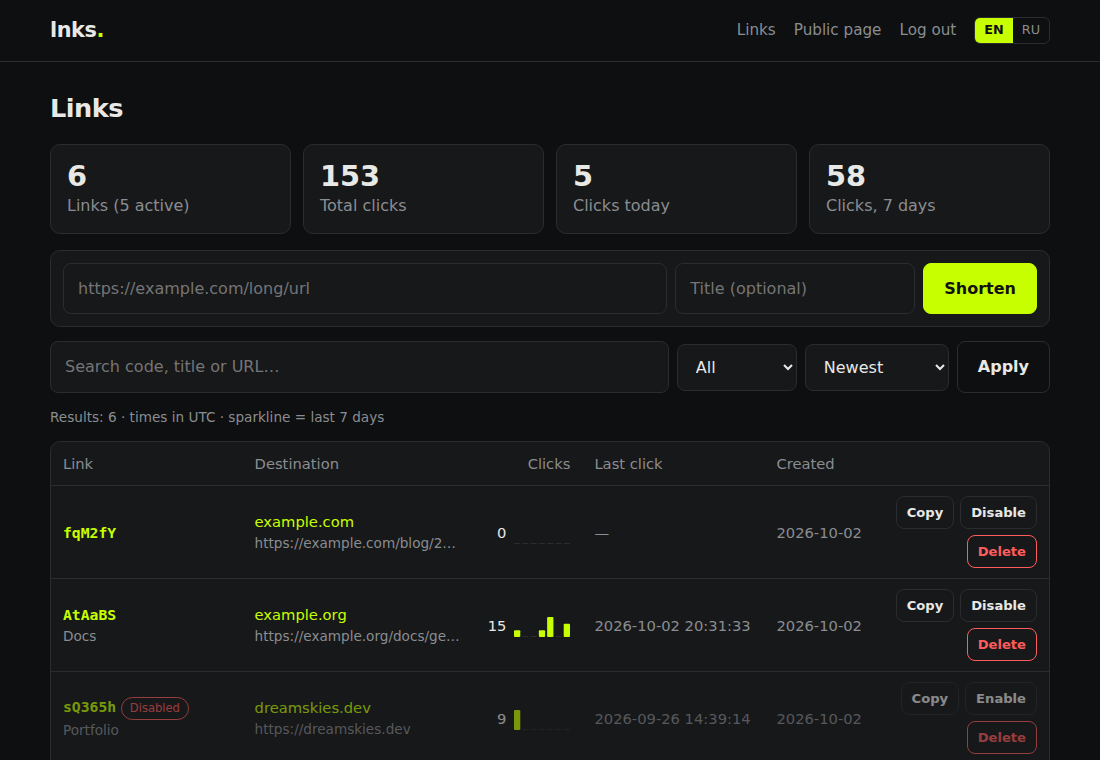
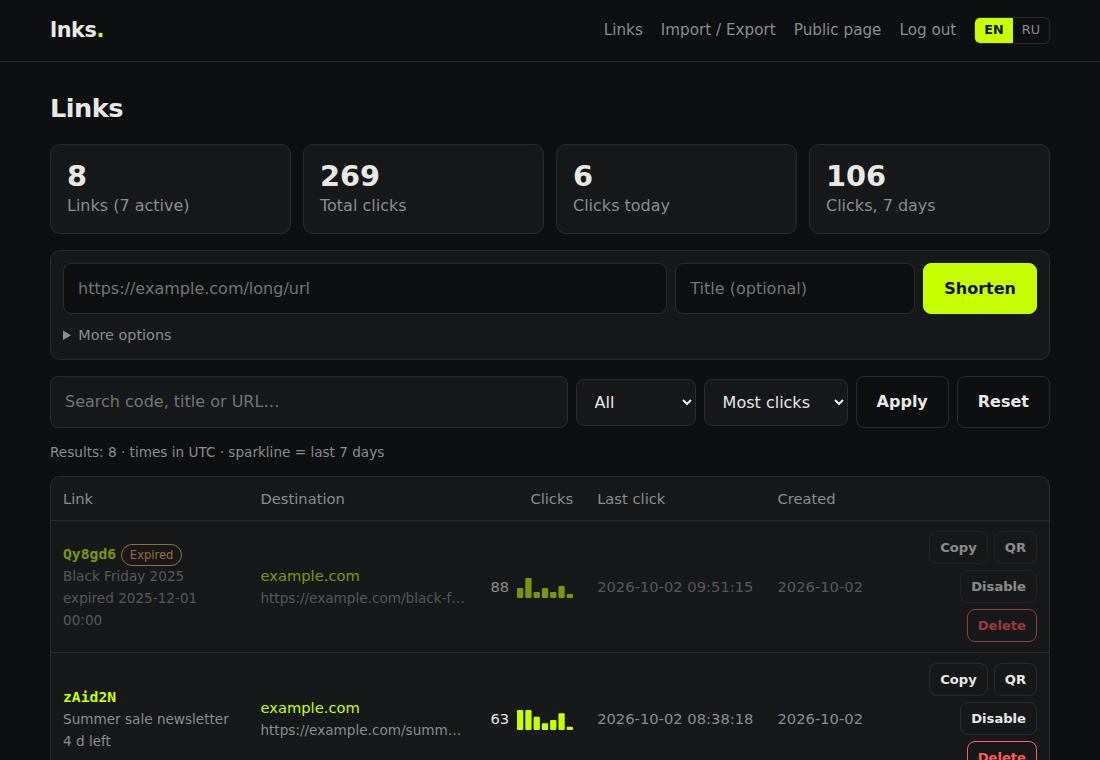
Stage 1.4: README positioning — no SSH/MySQL, comparison, FTP install
- 'Works without SSH and MySQL' block at the top (EN + RU)
- Comparison table with YOURLS, Shlink and Kutt, checked against each
  project's repository (YOURLS composer.json: PHP 8.1 + pdo_mysql; Shlink
  README: PHP 8.4, intl/gd/gmp, CLI installer on the server, QR moved to the
  web client in Shlink 5; Kutt: Node.js 20, expire_in, no click limit)
- Step-by-step 'Install over FTP' for shared hosting with troubleshooting;
  shell install kept for VPS; requirement that lnks runs at a domain root
- Screenshots refreshed: admin with expiry/limits, stats, QR dialog, CSV
  import preview, public page, mobile RU

diff --git a/README.ru.md b/README.ru.md
@@ -9,16 +9,43 @@
 
 Минималистичный self-hosted сервис сокращения ссылок. Одно небольшое PHP-приложение, SQLite, ноль зависимостей.
 
-Без Composer, фреймворков и Docker, без трекинг-пикселей и сторонних скриптов. Загрузите на любой PHP-хостинг, откройте в браузере — и всё работает.
+> ### Работает без SSH и MySQL
+> Залейте файлы по **FTP**, откройте домен в браузере, задайте логин и пароль — готово.
+> Не нужен доступ к консоли, не нужно создавать базу данных, никаких Composer, Docker и Node.js.
+> Если хостинг поддерживает PHP 8.0+ (а это почти любой виртуальный хостинг), lnks на нём заработает.
+
+Никаких трекинг-пикселей, сторонних скриптов и внешних сервисов: QR-коды рисуются в браузере, статистика хранится в вашем файле SQLite.
 
 <p align="center">
-  <img src="docs/screenshots/home.png" alt="Публичная страница" width="49%">
-  <img src="docs/screenshots/admin.png" alt="Админка" width="49%">
+  <img src="docs/screenshots/admin.png" alt="Админка: ссылки с графиками кликов, сроком действия и лимитами" width="49%">
+  <img src="docs/screenshots/stats.png" alt="Статистика и настройки ссылки" width="49%">
 </p>
 <p align="center">
-  <img src="docs/screenshots/stats.png" alt="Статистика по ссылке" width="49%">
+  <img src="docs/screenshots/qr.png" alt="Окно QR-кода со скачиванием PNG и SVG" width="49%">
+  <img src="docs/screenshots/import.png" alt="Предпросмотр импорта CSV с распознанной выгрузкой YOURLS" width="49%">
+</p>
+<p align="center">
+  <img src="docs/screenshots/home.png" alt="Публичная страница" width="49%">
   <img src="docs/screenshots/mobile-ru.png" alt="Мобильная версия, русский интерфейс" width="22%">
 </p>
+
+## Сравнение
+
+| | **lnks** | YOURLS | Shlink | Kutt |
+|---|---|---|---|---|
+| Среда | PHP 8.0+ | PHP 8.1+ | PHP 8.4+ | Node.js 20+ |
+| База данных | SQLite, создаётся сама | MySQL / MariaDB (создать вручную) | MySQL, MariaDB, PostgreSQL, SQL Server или SQLite | SQLite, PostgreSQL или MySQL / MariaDB |
+| Нужные расширения PHP | `pdo_sqlite` | `pdo_mysql` | `curl`, `intl`, `gd`, `gmp`/`bcmath`, драйвер PDO | — |
+| Установка только по FTP (без SSH) | ✅ веб-установщик | ✅ правка `config.php`, затем `/admin` | ❌ CLI-установщик запускается на сервере | ❌ нужен процесс Node.js или Docker |
+| Обычный виртуальный PHP-хостинг | ✅ | ✅ (с MySQL) | редко | ❌ |
+| Встроенная админка | ✅ | ✅ | отдельное приложение (Shlink Web Client) | ✅ |
+| QR-коды | ✅ | плагин | в веб-клиенте | ✅ |
+| Срок действия / лимит кликов | ✅ / ✅ | плагины | ✅ / ✅ | ✅ / — |
+| Импорт CSV (в т. ч. из YOURLS) | ✅ в админке и API | плагин | ✅ CLI-импортёр | — |
+
+<sub>Сверено с репозиториями и README проектов в октябре 2026 (YOURLS 1.10, Shlink 5, Kutt 3). Нашли неточность? [Создайте issue](https://github.com/iDreamSkies/lnks/issues).</sub>
+
+**Выбирайте lnks**, если нужен сокращатель на недорогом виртуальном хостинге за минуту, без сервера БД и консоли. **YOURLS** — если нужна его экосистема плагинов и уже есть MySQL, **Shlink** — для нескольких доменов и отдельного API-бэкенда, **Kutt** — если у вас и так Node.js или Docker.
 
 ## Возможности
 
@@ -57,20 +84,34 @@
 
 ## Требования
 
-- PHP 8.0+ с `pdo_sqlite` (есть в любой стандартной сборке PHP)
-- Apache с `mod_rewrite` или Nginx (конфиг ниже)
+- PHP 8.0 или новее с `pdo_sqlite` (включено практически на любом хостинге; установщик это проверит)
+- Apache с `mod_rewrite` (стандарт на виртуальном хостинге) или Nginx (конфиг ниже)
+- lnks должен находиться в **корне домена или поддомена** (`https://s.example.com/`), а не в подпапке
 
 ## Установка
 
-**Веб-установщик (проще всего):** загрузите файлы, направьте корень домена в папку проекта и откройте сайт. Мастер запустится сам:
+### Установка по FTP (виртуальный хостинг, без SSH)
 
-1. задайте **логин и пароль администратора**,
-2. решите, можно ли всем сокращать ссылки на главной,
-3. скопируйте сгенерированный API-токен (показывается один раз, также лежит в `config.php`).
+1. **Скачайте** lnks: на GitHub нажмите **Code → Download ZIP** и распакуйте архив на компьютере.
+2. **Создайте домен или поддомен** в панели хостинга (cPanel, ISPmanager, Plesk, DirectAdmin…), например `s.example.com`, и выберите для него **PHP 8.0 или новее**.
+3. **Загрузите файлы** FTP-клиентом (FileZilla, WinSCP или файловый менеджер хостинга) в папку этого домена — обычно `public_html`, `www` или `s.example.com/`. Загружайте *содержимое* папки `lnks-main`, включая скрытый файл `.htaccess` (в FileZilla: *Сервер → Принудительно показывать скрытые файлы*).
+4. **Дайте права на запись в `storage/`**: правый клик по папке `storage` → *Права доступа к файлу* → `775` (или `777`, если хостинг этого требует). Корневая папка тоже должна быть доступна для записи — один раз, чтобы установщик создал `config.php`.
+5. **Откройте домен** в браузере. Мастер установки проверит PHP, SQLite и права, затем попросит задать **логин и пароль администратора**.
+6. **Сохраните API-токен**, показанный в конце. По желанию удалите `install.php` по FTP.
 
-После установки установщик блокируется, как только появляется `config.php`. Файл `install.php` потом можно удалить.
+Админка находится по адресу `https://ваш-домен/admin.php`. Включите HTTPS в панели хостинга (почти везде есть бесплатные сертификаты Let's Encrypt).
 
-**Вручную:**
+<details>
+<summary>Если что-то не работает</summary>
+
+- **Ошибка 500 или все короткие ссылки дают 404** — не загружен `.htaccess` или выключен `mod_rewrite`. Загрузите `.htaccess` заново; на хостинге только с Nginx используйте конфиг ниже или попросите поддержку направить все запросы на `index.php`.
+- **В установщике красным «storage/ доступна для записи»** — выставьте папке `storage` права `775`, а на хостингах, где PHP работает от другого пользователя, — `777`.
+- **Красным «PDO SQLite»** — включите расширение `pdo_sqlite` (иногда называется `sqlite3`) в настройках PHP в панели хостинга.
+- **Нет стилей, страница «голая»** — lnks загружен в подпапку; перенесите его в корень домена или поддомена.
+
+</details>
+
+### Установка через консоль (VPS, ручная настройка)
 
 ```bash
 git clone https://github.com/iDreamSkies/lnks.git

diff --git a/README.md b/README.md
@@ -9,16 +9,43 @@
 
 Minimal self-hosted URL shortener. One small PHP app, SQLite, zero dependencies.
 
-No Composer, no framework, no Docker, no tracking pixels, no third-party scripts. Upload to any PHP hosting, open it in a browser, and it works.
+> ### Works without SSH and MySQL
+> Upload the files over **FTP**, open your domain in a browser, set a login and password — done.
+> No shell access, no database server to create, no Composer, no Docker, no Node.js.
+> If your hosting runs PHP 8.0+ (almost every shared hosting does), lnks runs there.
+
+No tracking pixels, no third-party scripts, no external services: QR codes are drawn in the browser, statistics stay in your SQLite file.
 
 <p align="center">
-  <img src="docs/screenshots/home.png" alt="Public page" width="49%">
-  <img src="docs/screenshots/admin.png" alt="Admin panel" width="49%">
+  <img src="docs/screenshots/admin.png" alt="Admin panel: links with click sparklines, expiry and click limits" width="49%">
+  <img src="docs/screenshots/stats.png" alt="Per-link statistics and settings" width="49%">
 </p>
 <p align="center">
-  <img src="docs/screenshots/stats.png" alt="Per-link statistics" width="49%">
+  <img src="docs/screenshots/qr.png" alt="QR code dialog with PNG and SVG download" width="49%">
+  <img src="docs/screenshots/import.png" alt="CSV import preview recognising a YOURLS export" width="49%">
+</p>
+<p align="center">
+  <img src="docs/screenshots/home.png" alt="Public page" width="49%">
   <img src="docs/screenshots/mobile-ru.png" alt="Mobile layout, Russian interface" width="22%">
 </p>
+
+## How it compares
+
+| | **lnks** | YOURLS | Shlink | Kutt |
+|---|---|---|---|---|
+| Runtime | PHP 8.0+ | PHP 8.1+ | PHP 8.4+ | Node.js 20+ |
+| Database | SQLite, created automatically | MySQL / MariaDB (create it yourself) | MySQL, MariaDB, PostgreSQL, SQL Server or SQLite | SQLite, PostgreSQL or MySQL / MariaDB |
+| Required PHP extensions | `pdo_sqlite` | `pdo_mysql` | `curl`, `intl`, `gd`, `gmp`/`bcmath`, a PDO driver | — |
+| Install over FTP only (no SSH) | ✅ web installer | ✅ edit `config.php`, then open `/admin` | ❌ CLI installer must run on the server | ❌ needs a Node.js process or Docker |
+| Typical shared PHP hosting | ✅ | ✅ (with MySQL) | rarely | ❌ |
+| Built-in admin UI | ✅ | ✅ | separate app (Shlink Web Client) | ✅ |
+| QR codes | ✅ | plugin | in the web client | ✅ |
+| Expiry date / click limit | ✅ / ✅ | plugins | ✅ / ✅ | ✅ / — |
+| CSV import (incl. from YOURLS) | ✅ in the admin and API | plugin | ✅ CLI importer | — |
+
+<sub>Compared with each project's own repository and README in October 2026 (YOURLS 1.10, Shlink 5, Kutt 3). Spotted something outdated? [Open an issue](https://github.com/iDreamSkies/lnks/issues).</sub>
+
+**Pick lnks** when you want a shortener on cheap shared hosting in a minute, without a database server or console. **Pick YOURLS** if you need its plugin ecosystem and already have MySQL, **Shlink** for multi-domain setups with a separate API-first backend, **Kutt** if you run Node.js or Docker anyway.
 
 ## Features
 
@@ -57,20 +84,34 @@ No Composer, no framework, no Docker, no tracking pixels, no third-party scripts
 
 ## Requirements
 
-- PHP 8.0+ with `pdo_sqlite` (present in every default PHP build)
-- Apache with `mod_rewrite`, or Nginx (config below)
+- PHP 8.0 or newer with `pdo_sqlite` (enabled on virtually every hosting; the installer checks it)
+- Apache with `mod_rewrite` (standard on shared hosting), or Nginx (config below)
+- lnks must live at the **root of a domain or subdomain** (`https://s.example.com/`), not in a subfolder
 
 ## Installation
 
-**Web installer (easiest):** upload the files, point your domain's document root at the project directory and open the site. The setup wizard runs automatically:
+### Install over FTP (shared hosting, no SSH)
 
-1. pick an **admin username and password**,
-2. choose whether anyone may shorten links from the homepage,
-3. copy the generated API token (shown once; it is also stored in `config.php`).
+1. **Download** lnks: on GitHub click **Code → Download ZIP** and unpack it on your computer.
+2. **Create a domain or subdomain** in your hosting panel (cPanel, ISPmanager, Plesk, DirectAdmin…), e.g. `s.example.com`, and select **PHP 8.0 or newer** for it.
+3. **Upload the files** with an FTP client (FileZilla, WinSCP or the hosting's file manager) into the folder of that domain — usually `public_html`, `www` or `s.example.com/`. Upload the *contents* of the `lnks-main` folder, including the hidden `.htaccess` file (in FileZilla: *Server → Force showing hidden files*).
+4. **Make `storage/` writable**: right-click the `storage` folder → *File permissions* → `775` (or `777` if your host needs it). The root folder must be writable too, once, so the installer can create `config.php`.
+5. **Open your domain** in a browser. The setup wizard checks PHP, SQLite and permissions, then asks for an **admin login and password**.
+6. **Save the API token** shown at the end. Optionally delete `install.php` over FTP.
 
-The installer locks itself once `config.php` exists. You may delete `install.php` afterwards.
+The admin panel is at `https://your-domain/admin.php`. Turn on HTTPS in the hosting panel (most offer free Let's Encrypt certificates).
 
-**Manual:**
+<details>
+<summary>Troubleshooting</summary>
+
+- **500 error or every short link shows 404** — `.htaccess` was not uploaded or `mod_rewrite` is off. Re-upload `.htaccess`; on Nginx-only hosting use the config below or ask support to route all requests to `index.php`.
+- **"storage/ writable" is red in the installer** — set permissions of `storage` to `775`, or `777` on hosts where PHP runs as another user.
+- **"PDO SQLite" is red** — enable the `pdo_sqlite` (sometimes called `sqlite3`) extension in the hosting panel's PHP settings.
+- **Styles are missing** — lnks was uploaded into a subfolder; move it to the root of a domain or subdomain.
+
+</details>
+
+### Install with a shell (VPS, manual config)
 
 ```bash
 git clone https://github.com/iDreamSkies/lnks.git
